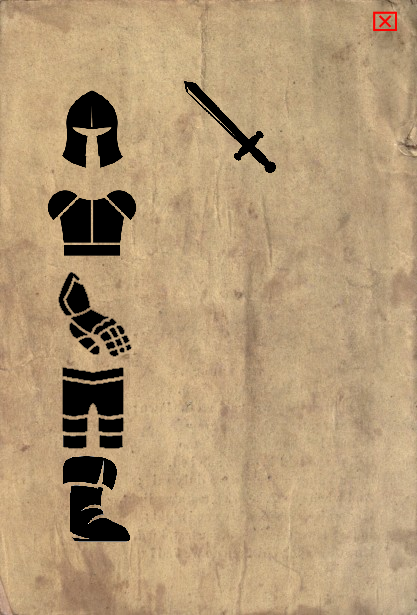
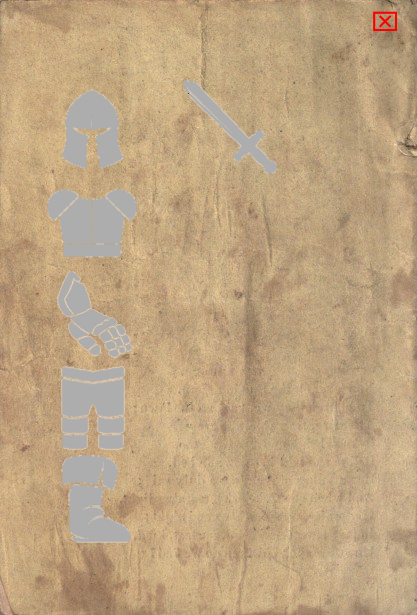
Ajout des icones

Changed region(s): [[0.0935, 0.3089, 0.3429, 0.8959], [0.1559, 0.1236, 0.3118, 0.278], [0.4365, 0.1236, 0.6859, 0.278]]

diff --git a/src/org/thunderbot/FOS/database/InitDataJeu.java b/src/org/thunderbot/FOS/database/InitDataJeu.java
@@ -49,12 +49,12 @@ public class InitDataJeu {
                     + OBJET_DPS + ", " + OBJET_IMAGE + " ) "
             + "VALUES "
                     + "( 'Livre d''histoire', 'Un livre racontant l''Histoire du Bellum Deorum', 0, 0, 0, 0, 0, 0, 0, 0, 0, 0, 'livre.png'), "
-                    + "( 'Casque De Base'   , 'Un vieux casque usé par le temps'               ,1, 0, 1, 1, 1, 1, 1, 1, 1, 0, 'casque.png'), "
-                    + "( 'Plastron De Base' , 'Un vieux plastron usé par le temps'             ,2, 0, 1, 1, 1, 1, 1, 1, 1, 0, 'torse.png'), "
-                    + "( 'Gant De Base'     , 'Deux vieux gants usé par le temps'              ,3, 0, 1, 1, 1, 1, 1, 1, 1, 0, 'gant.png'), "
-                    + "( 'Pantalon De Base' , 'Un vieux pantalon usé par le temps'             ,4, 0, 1, 1, 1, 1, 1, 1, 1, 0, 'jambiere.png'), "
-                    + "( 'Botte De Base'    , 'Deux villes bottes usé par le temps'            ,5, 0, 1, 1, 1, 1, 1, 1, 1, 0, 'botte.png'), "
-                    + "( 'Baton De Base'    , 'Un vieux baton usé par le temps'                ,6, 0, 1, 1, 1, 1, 1, 1, 1, 1, 'baton.png');";
+                    + "( 'Casque De Base'   , 'Un vieux casque usé par le temps'               ,1, 0, 1, 1, 1, 1, 1, 1, 1, 0, 'chapeau.png'), "
+                    + "( 'Plastron De Base' , 'Un vieux plastron usé par le temps'             ,2, 0, 1, 1, 1, 1, 1, 1, 1, 0, 'chemise.png'), "
+                    + "( 'Gant De Base'     , 'Deux vieux gants usé par le temps'              ,3, 0, 1, 1, 1, 1, 1, 1, 1, 0, 'mitaine.png'), "
+                    + "( 'Pantalon De Base' , 'Un vieux pantalon usé par le temps'             ,4, 0, 1, 1, 1, 1, 1, 1, 1, 0, 'pantalon.png'), "
+                    + "( 'Botte De Base'    , 'Deux villes bottes usé par le temps'            ,5, 0, 1, 1, 1, 1, 1, 1, 1, 0, 'tong.png'), "
+                    + "( 'Baton De Base'    , 'Un vieux baton usé par le temps'                ,6, 0, 1, 1, 1, 1, 1, 1, 1, 1, 'robe_haut.png');";
 
     public static void main(String[] args) {
         HelperBD helperBD = new HelperBD(FosDAO.NOM_BD);

diff --git a/src/org/thunderbot/FOS/client/gameState/GUI/ObjetContainer.java b/src/org/thunderbot/FOS/client/gameState/GUI/ObjetContainer.java
@@ -1,6 +1,7 @@
 package org.thunderbot.FOS.client.gameState.GUI;
 
 import org.newdawn.slick.Graphics;
+import org.newdawn.slick.Image;
 import org.newdawn.slick.SlickException;
 import org.thunderbot.FOS.client.statiqueState.layout.ImageFlottante;
 import org.thunderbot.FOS.database.beans.Objet;
@@ -17,6 +18,7 @@ public class ObjetContainer {
     private int hauteur;
 
     private Objet objet; /** Objet contenu dans le conteuneur */
+    private Image image;
 
     private ImageFlottante imageFlottante;
 
@@ -29,14 +31,20 @@ public class ObjetContainer {
     }
 
     public void render(Graphics graphics) {
-        graphics.drawRect(x, y, longueur, hauteur);
+        //graphics.drawRect(x, y, longueur, hauteur);
         imageFlottante.render(graphics);
+        graphics.drawImage(image, x , y);
     }
 
     /** Attribut un objet au container */
     public void setObjet(Objet objet) {
         this.objet = objet;
         imageFlottante.setTexte(objet.getNom() + " :\n" + objet.getDesc());
+        try {
+            image = new Image("res/texture/objet/" + objet.getImage());
+        } catch (SlickException e) {
+            e.printStackTrace();
+        }
     }
 
     public void mouseMouved(int y, int x) {
